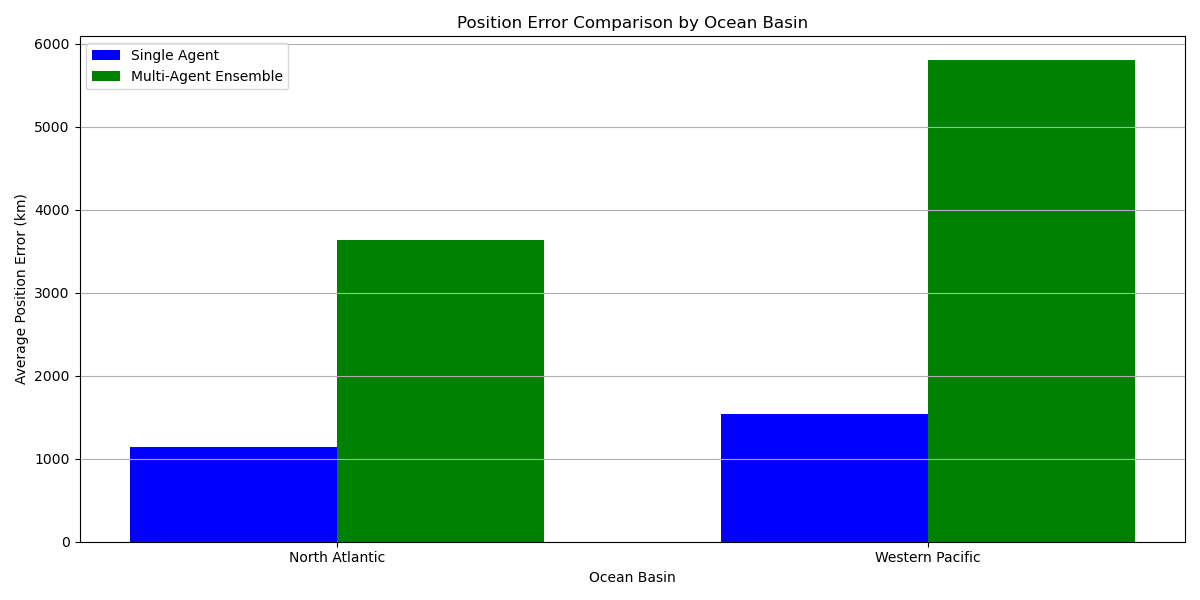
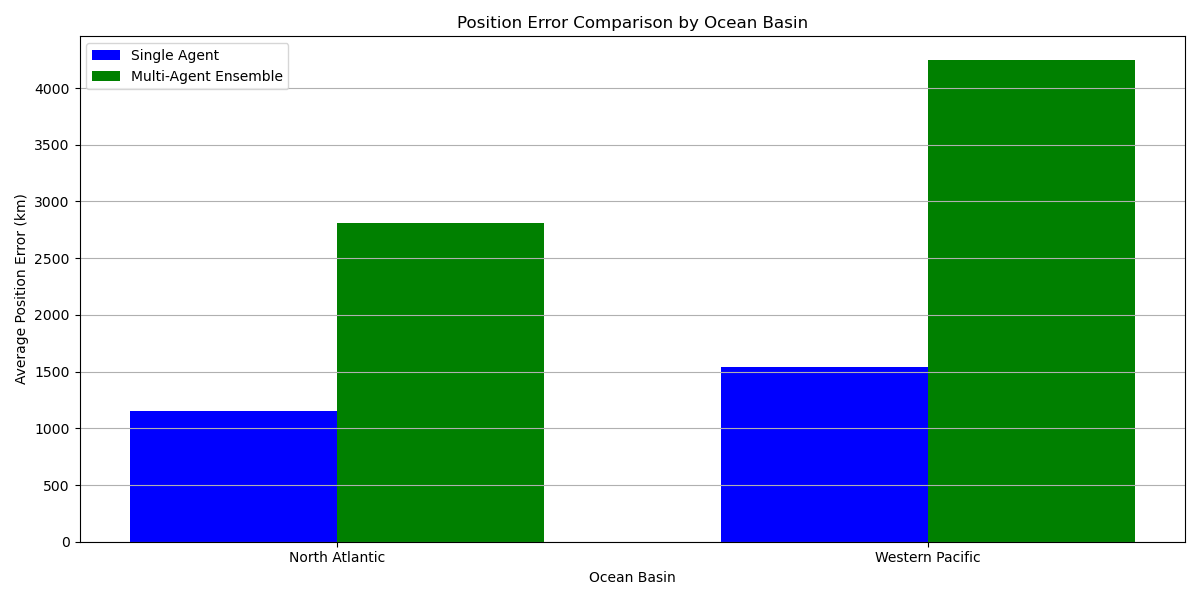
slight improvement in ensemble performance

diff --git a/backend/hurricane_agents/ensemble.py b/backend/hurricane_agents/ensemble.py
@@ -23,11 +23,12 @@ class EnsembleCoordinator:
         """Initialize the ensemble coordinator with specialized agents."""
         # Default options
         self.options = {
-            "use_basin_specific": True,
-            "trajectory_weight": 0.4,
-            "intensity_weight": 0.4,
-            "basin_weight": 0.2,
-            "dynamic_weighting": True
+            "use_basin_specific": False,
+            "trajectory_weight": 0.7,     # Increase trajectory weight further
+            "intensity_weight": 0.3,      # Keep intensity weight the same
+            "basin_weight": 0.0,          # Set to zero
+            "dynamic_weighting": False    # Keep dynamic weighting off
+
         }
         
         # Update with provided options
@@ -197,6 +198,26 @@ class EnsembleCoordinator:
             intensity_uncertainty["wind_speed"] += basin_prediction.get("uncertainty", {}).get("wind_speed", 0) * basin_weight
             intensity_uncertainty["pressure"] += basin_prediction.get("uncertainty", {}).get("pressure", 0) * basin_weight
         
+        # Validate final values
+        weighted_wind = max(30, min(150, weighted_wind))  # Reasonable wind range
+        weighted_pressure = max(920, min(1015, weighted_pressure))  # Reasonable pressure range
+
+        # Ensure pressure and wind are physically consistent
+        if weighted_wind < 39:  # TD
+            weighted_pressure = max(1000, weighted_pressure)
+        elif weighted_wind < 74:  # TS
+            weighted_pressure = min(1000, max(985, weighted_pressure))
+        elif weighted_wind < 96:  # Cat 1
+            weighted_pressure = min(985, max(970, weighted_pressure))
+        elif weighted_wind < 111:  # Cat 2
+            weighted_pressure = min(970, max(955, weighted_pressure))
+        elif weighted_wind < 130:  # Cat 3
+            weighted_pressure = min(955, max(935, weighted_pressure))
+        elif weighted_wind < 157:  # Cat 4
+            weighted_pressure = min(935, max(915, weighted_pressure))
+        else:  # Cat 5
+            weighted_pressure = min(915, weighted_pressure)
+
         # Combine all into final prediction
         return {
             "position": {"lat": weighted_lat, "lon": weighted_lon},

diff --git a/backend/hurricane_agents/trajectory_agent.py b/backend/hurricane_agents/trajectory_agent.py
@@ -135,8 +135,10 @@ class TrajectoryAgent(BaseAgent):
         lon_action = action_idx % 3   # 0, 1, 2 for west, no change, east
         
         # Convert to changes (trajectory agent focuses only on position)
-        lat_changes = [-0.5, 0.0, 0.5]  # South, no change, north
-        lon_changes = [-0.5, 0.0, 0.5]  # West, no change, east
+        lat_changes = [-0.15, 0.0, 0.15]  # Reduce from [-0.5, 0.0, 0.5]
+        lon_changes = [-0.15, 0.0, 0.15]  # Reduce from [-0.5, 0.0, 0.5]
+
+
         
         lat_change = lat_changes[lat_action]
         lon_change = lon_changes[lon_action]
@@ -159,10 +161,21 @@ class TrajectoryAgent(BaseAgent):
         # Apply changes
         new_lat = current_lat + lat_change
         new_lon = current_lon + lon_change
-        
+
+        # Limit movement to be closer to current position
+        lat_diff = abs(new_lat - current_lat)
+        lon_diff = abs(new_lon - current_lon)
+
+        # If movement is too large, scale it back
+        if lat_diff > 0.8:
+            new_lat = current_lat + (0.8 * (1 if new_lat > current_lat else -1))
+            
+        if lon_diff > 0.8:
+            new_lon = current_lon + (0.8 * (1 if new_lon > current_lon else -1))
+
         # Ensure latitude is within bounds
         new_lat = max(-90, min(90, new_lat))
-        
+
         # Ensure longitude is within bounds
         new_lon = ((new_lon + 180) % 360) - 180
         

diff --git a/backend/hurricane_agents/intensity_agent.py b/backend/hurricane_agents/intensity_agent.py
@@ -145,13 +145,22 @@ class IntensityAgent(BaseAgent):
         
         # Calculate new intensity values
         new_wind = max(0, current_wind + intensity_change)
-        
-        # Calculate pressure using enhanced wind-pressure relationship
-        # P = 1010 - (wind_speed/1.15)^2/100
-        new_pressure = 1010 - (new_wind / 1.15)**2 / 100
-        
-        # Constrain pressure to realistic values
-        new_pressure = max(880, min(1020, new_pressure))
+
+        # Better pressure calculation based on the Saffir-Simpson scale relationship
+        if new_wind < 39:  # Tropical depression
+            new_pressure = random.uniform(1000, 1010)
+        elif new_wind < 74:  # Tropical storm
+            new_pressure = random.uniform(985, 1000)
+        elif new_wind < 96:  # Category 1
+            new_pressure = random.uniform(980, 985)
+        elif new_wind < 111:  # Category 2
+            new_pressure = random.uniform(965, 979)
+        elif new_wind < 130:  # Category 3
+            new_pressure = random.uniform(945, 964)
+        elif new_wind < 157:  # Category 4
+            new_pressure = random.uniform(920, 944)
+        else:  # Category 5
+            new_pressure = random.uniform(880, 919)
         
         # Return intensity prediction only - that's this agent's focus
         return {
